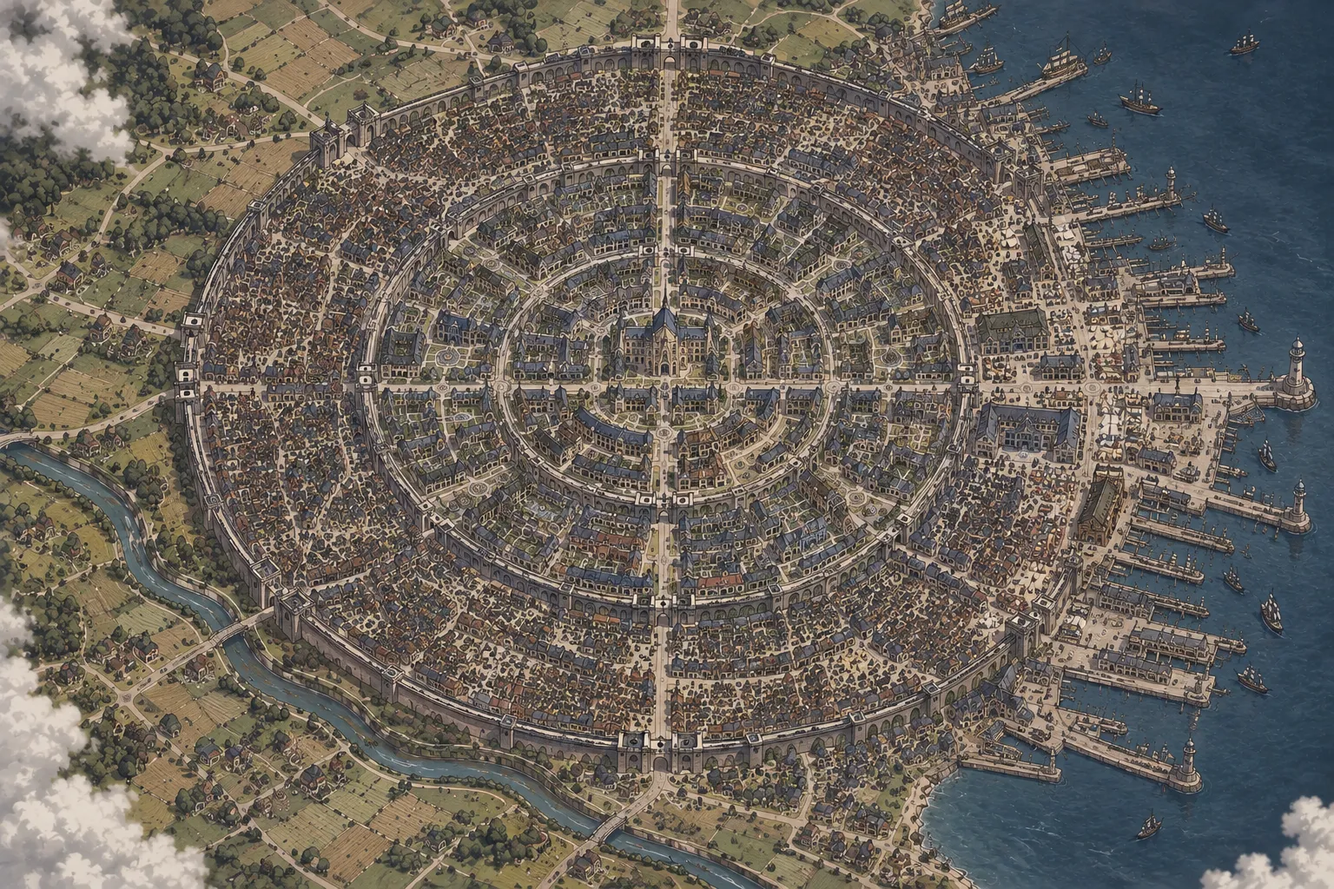
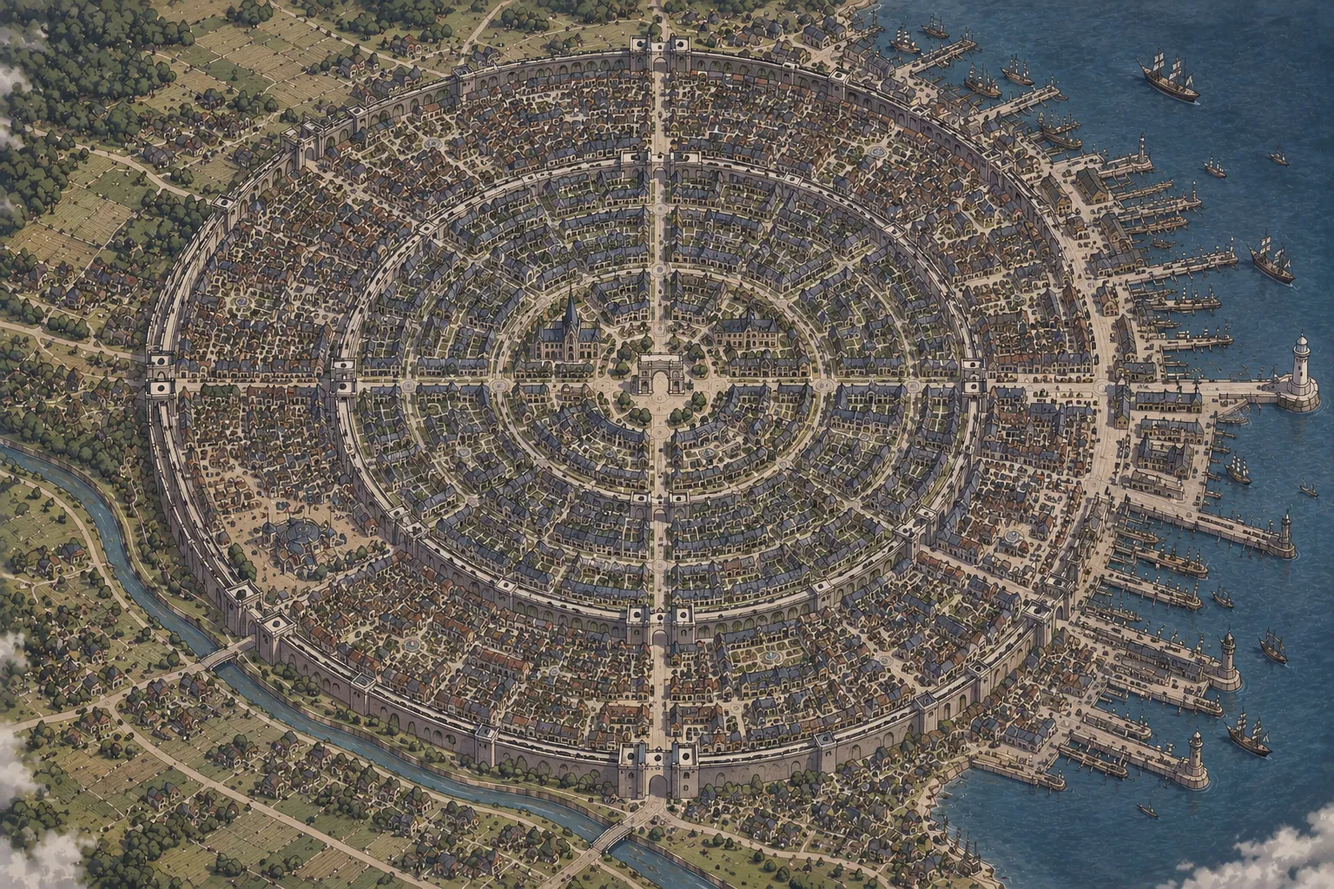
City map: new artwork, two districts (Outer City and Inner City)
Replace the map with the new image and drop the Middle Ring tab. Every
location is re-pinned on the new art: the Adventurer Guild is the domed
hall in the south-west; the old Middle Ring places move to the Outer City
(Tailor, Auction House, Church) or the Inner City (Library, Estate Office,
Silver Lantern Inn). Residences are renamed Outer City House, Inner City
Townhouse and Inner City Mansion (save ids unchanged).

Claude-Session: https://claude.ai/code/session_015ZuKpYw1JmkxdkRzcPHZ6y

diff --git a/src/scenes/CityScene.ts b/src/scenes/CityScene.ts
@@ -9,8 +9,9 @@ import { COLORS, HEIGHT, ScrollList, WIDTH, button, confirmDialog, figure, panel
 
 export const CITY_MAP_KEY = 'city-map';
 
-type Ring = 'outer' | 'middle' | 'inner';
-const RINGS: [Ring, string][] = [['outer', 'Outer Ring'], ['middle', 'Middle Ring'], ['inner', 'Inner Ring']];
+/** The two parts of the city, split by the inner wall (each is a map tab). */
+type District = 'outer' | 'inner';
+const DISTRICTS: [District, string][] = [['outer', 'Outer City'], ['inner', 'Inner City']];
 
 interface Place {
   name: string;
@@ -22,46 +23,48 @@ interface Place {
   data?: object;
 }
 
-const PLACES: Record<Ring, Place[]> = {
+/**
+ * Locations by district. Outer City: between the outer and inner walls, plus the harbour to the east
+ * (the Adventurer Guild is the domed hall on the plaza in the south-west). Inner City: inside the inner wall,
+ * with the cathedral, the manor and the triumphal arch at its centre.
+ */
+const PLACES: Record<District, Place[]> = {
   outer: [
-    { name: 'Adventurer Guild', blurb: 'Quest board, hire mercenaries and companions, the party leaderboard.', at: [1162, 378], scene: 'Guild' },
-    { name: 'Docks', blurb: 'Ships from across the sea.', at: [1330, 760] },
-    { name: 'Marketplace', blurb: 'Stalls and traders.', at: [1250, 270] },
-    { name: 'Slave Market', blurb: 'Buy slaves, or sell your own.', at: [1266, 585], scene: 'Market' },
-    { name: 'Slums', blurb: 'The poorest quarter, inside the outer wall.', at: [330, 650] },
-    { name: 'Customs Office', blurb: 'Duties on everything that comes through the harbour.', at: [1352, 455] },
-    { name: GUILD.inns.standard.name, blurb: `Inn: lodging at ${GUILD.inns.standard.pricePerPerson} gold per person a night, and drinks. What C-rank adventurers expect.`, at: [330, 330], scene: 'Inn', data: { tier: 'standard' } },
-    { name: GUILD.residences.outer.name, blurb: `A home of your own (${GUILD.residences.outer.price} gold at the Estate Office): free nights, as good as an inn.`, at: [560, 860], scene: 'Inn', data: { ring: 'outer' } },
-  ],
-  middle: [
-    { name: 'Tailor', blurb: 'Clothes and fittings.', at: [520, 380] },
-    { name: 'Auction House', blurb: 'Rare goods to the highest bidder.', at: [1010, 420] },
-    { name: 'Library', blurb: 'Books, maps and old records.', at: [640, 650] },
-    { name: 'Church', blurb: 'Prayer and healing.', at: [905, 640] },
-    { name: 'Estate Office', blurb: 'Buy and sell residences in every ring.', at: [1110, 300], scene: 'Estate' },
-    { name: GUILD.inns.highEnd.name, blurb: `High-end inn: ${GUILD.inns.highEnd.pricePerPerson} gold per person a night, and drinks. What B-rank adventurers expect.`, at: [1060, 560], scene: 'Inn', data: { tier: 'highEnd' } },
-    { name: GUILD.residences.middle.name, blurb: `A Middle Ring home (${GUILD.residences.middle.price} gold at the Estate Office): free nights, as good as a high-end inn.`, at: [470, 560], scene: 'Inn', data: { ring: 'middle' } },
+    { name: 'Adventurer Guild', blurb: 'Quest board, hire mercenaries and companions, the party leaderboard.', at: [350, 628], scene: 'Guild' },
+    { name: 'Docks', blurb: 'Ships from across the sea.', at: [1360, 660] },
+    { name: 'Marketplace', blurb: 'Stalls and traders by the harbour warehouses.', at: [1240, 235] },
+    { name: 'Slave Market', blurb: 'Buy slaves, or sell your own.', at: [1160, 613], scene: 'Market' },
+    { name: 'Slums', blurb: 'The poorest quarter, crowded against the outer wall.', at: [470, 765] },
+    { name: 'Customs Office', blurb: 'Duties on everything that comes through the harbour.', at: [1335, 525] },
+    { name: 'Tailor', blurb: 'Clothes and fittings.', at: [497, 167] },
+    { name: 'Auction House', blurb: 'Rare goods to the highest bidder.', at: [1010, 173] },
+    { name: 'Church', blurb: 'Prayer and healing.', at: [277, 343] },
+    { name: GUILD.inns.standard.name, blurb: `Inn: lodging at ${GUILD.inns.standard.pricePerPerson} gold per person a night, and drinks. What C-rank adventurers expect.`, at: [255, 480], scene: 'Inn', data: { tier: 'standard' } },
+    { name: GUILD.residences.outer.name, blurb: `A home of your own (${GUILD.residences.outer.price} gold at the Estate Office): free nights, as good as an inn.`, at: [900, 805], scene: 'Inn', data: { ring: 'outer' } },
   ],
   inner: [
-    { name: "Lord's Manor", blurb: 'Seat of the Lord of Arch City.', at: [765, 392] },
-    { name: 'Central Government Office', blurb: 'Permits, taxes and the city\'s business.', at: [650, 470] },
-    { name: 'Central Church', blurb: 'The great church at the heart of the city.', at: [885, 470] },
-    { name: GUILD.inns.luxury.name, blurb: `Luxury inn: ${GUILD.inns.luxury.pricePerPerson} gold per person a night, and drinks. What A and S-rank adventurers expect.`, at: [765, 548], scene: 'Inn', data: { tier: 'luxury' } },
-    { name: GUILD.residences.inner.name, blurb: `An Inner Ring mansion (${GUILD.residences.inner.price} gold at the Estate Office): free nights, as good as a luxury inn.`, at: [600, 560], scene: 'Inn', data: { ring: 'inner' } },
+    { name: "Lord's Manor", blurb: 'Seat of the Lord of Arch City.', at: [860, 378] },
+    { name: 'Central Church', blurb: 'The great cathedral at the heart of the city.', at: [655, 375] },
+    { name: 'Central Government Office', blurb: 'Permits, taxes and the city\'s business, by the triumphal arch.', at: [757, 440] },
+    { name: 'Library', blurb: 'Books, maps and old records.', at: [530, 300] },
+    { name: 'Estate Office', blurb: 'Buy and sell residences across the city.', at: [990, 330], scene: 'Estate' },
+    { name: GUILD.inns.highEnd.name, blurb: `High-end inn: ${GUILD.inns.highEnd.pricePerPerson} gold per person a night, and drinks. What B-rank adventurers expect.`, at: [995, 570], scene: 'Inn', data: { tier: 'highEnd' } },
+    { name: GUILD.inns.luxury.name, blurb: `Luxury inn: ${GUILD.inns.luxury.pricePerPerson} gold per person a night, and drinks. What A and S-rank adventurers expect.`, at: [880, 500], scene: 'Inn', data: { tier: 'luxury' } },
+    { name: GUILD.residences.middle.name, blurb: `A townhouse inside the inner wall (${GUILD.residences.middle.price} gold at the Estate Office): free nights, as good as a high-end inn.`, at: [520, 585], scene: 'Inn', data: { ring: 'middle' } },
+    { name: GUILD.residences.inner.name, blurb: `A mansion by the cathedral (${GUILD.residences.inner.price} gold at the Estate Office): free nights, as good as a luxury inn.`, at: [640, 505], scene: 'Inn', data: { ring: 'inner' } },
   ],
 };
 
 /** Part of the map image each tab shows (x, y, width; height follows the frame). */
-const VIEWS: Record<Ring, { x: number; y: number; w: number }> = {
+const VIEWS: Record<District, { x: number; y: number; w: number }> = {
   outer: { x: 0, y: 0, w: 1536 },
-  middle: { x: 280, y: 150, w: 960 },
-  inner: { x: 495, y: 252, w: 540 },
+  inner: { x: 380, y: 190, w: 760 },
 };
 
-/** Arch City: the hub. Pick a ring and a location (inns to rest), or set out on an accepted quest. */
+/** Arch City: the hub. Pick a district and a location (inns to rest), or set out on an accepted quest. */
 export class CityScene extends Phaser.Scene {
   private tip!: Phaser.GameObjects.Text;
-  private ring: Ring = 'outer';
+  private district: District = 'outer';
 
   constructor() {
     super('City');
@@ -82,16 +85,16 @@ export class CityScene extends Phaser.Scene {
     const state = requireState();
     cityHeader(this, state, GUILD.city);
 
-    // ---- ring tabs and the map -------------------------------------------------------------
-    RINGS.forEach(([id, label], i) => button(this, 16 + i * 204, 72, 196, 30, label, () => {
-      this.ring = id;
+    // ---- district tabs and the map -------------------------------------------------------------
+    DISTRICTS.forEach(([id, label], i) => button(this, 16 + i * 294, 72, 286, 30, label, () => {
+      this.district = id;
       this.render();
-    }, { selected: this.ring === id, fontSize: 15 }));
+    }, { selected: this.district === id, fontSize: 15 }));
     const MX = 16;
     const MY = 108;
-    const MW = 604;
+    const MW = 580;
     const MH = Math.round((MW * 1024) / 1536);
-    const view = VIEWS[this.ring];
+    const view = VIEWS[this.district];
     const k = MW / view.w;
     const toMap = (x: number, y: number): [number, number] => [MX + (x - view.x) * k, MY + (y - view.y) * k];
     if (this.textures.exists(CITY_MAP_KEY)) {
@@ -100,14 +103,14 @@ export class CityScene extends Phaser.Scene {
     }
     this.add.rectangle(MX, MY, MW, MH).setOrigin(0).setStrokeStyle(2, COLORS.border);
 
-    const places = PLACES[this.ring];
+    const places = PLACES[this.district];
     for (const p of places) this.pin(p, ...toMap(...p.at));
     this.tip = text(this, MX + 8, MY + MH - 30, 'Click a location.', {
       fontSize: '13px', color: COLORS.text, backgroundColor: '#000000b0', padding: { x: 8, y: 4 }, wordWrap: { width: MW - 40 },
     }).setDepth(10);
 
-    // Every location in the ring as a button too (greyed out until it opens).
-    places.forEach((p, i) => button(this, MX + (i % 4) * 152, MY + MH + 6 + Math.floor(i / 4) * 28, 146, 24, p.name,
+    // Every location in the district as a button too (greyed out until it opens).
+    places.forEach((p, i) => button(this, MX + (i % 4) * 145, MY + MH + 6 + Math.floor(i / 4) * 25, 140, 23, p.name,
       () => this.visit(p), { fontSize: p.name.length > 20 ? 10 : 12, enabled: !!p.scene }));
 
     // ---- right: the quest at hand, and recent events -----------------------------------------
@@ -126,7 +129,7 @@ export class CityScene extends Phaser.Scene {
       });
     } else {
       const done = state.lastQuestDay === state.day;
-      text(this, RX + 12, 106, done ? 'Back from a quest today. Accept the next one any time; you can set out tomorrow.' : 'None. Visit the Adventurer Guild\'s quest board (Outer Ring).', { fontSize: '14px', wordWrap: { width: 284 } });
+      text(this, RX + 12, 106, done ? 'Back from a quest today. Accept the next one any time; you can set out tomorrow.' : 'None. Visit the Adventurer Guild\'s quest board (Outer City).', { fontSize: '14px', wordWrap: { width: 284 } });
       button(this, RX + 12, 196, 284, 32, 'Go to the Adventurer Guild', () => this.scene.start('Guild'), { fontSize: 14 });
     }
 
@@ -205,7 +208,7 @@ export class CityScene extends Phaser.Scene {
   /** End the day without an inn: free, but housed companions resent it. */
   private sleepOut(): void {
     const state = requireState();
-    confirmDialog(this, `Sleep outside tonight?\nIt's free, but companions you house lose relationship (more if they expect a high-end inn). Or find an inn (Outer and Inner Ring).`, () => {
+    confirmDialog(this, `Sleep outside tonight?\nIt's free, but companions you house lose relationship (more if they expect a high-end inn). Or find an inn (Outer and Inner City).`, () => {
       const msgs = sleepOutside(state, Math.random);
       markDirty();
       this.render();

diff --git a/src/scenes/InnScene.ts b/src/scenes/InnScene.ts
@@ -11,11 +11,11 @@ type Place = InnTier | Ring;
 
 const BLURB: Record<Place, string> = {
   standard: 'A busy common-room inn by the outer wall: stew, ale and a straw mattress. It does the job.',
-  highEnd: 'A respectable Middle Ring inn: clean sheets, a private room each and a decent wine list.',
-  luxury: 'The finest house in the Inner Ring: feather beds, hot baths and a cellar to match. Seasoned adventurers expect nothing less.',
+  highEnd: 'A respectable Inner City inn just inside the inner wall: clean sheets, a private room each and a decent wine list.',
+  luxury: 'The finest house in the Inner City: feather beds, hot baths and a cellar to match. Seasoned adventurers expect nothing less.',
   outer: 'A sturdy townhouse inside the outer wall. Your own roof: nights here cost nothing.',
-  middle: 'A handsome house in the Middle Ring, among merchants and guild masters. Nights here cost nothing.',
-  inner: 'A mansion in the Inner Ring, a street away from the Lord\'s Manor. Nights here cost nothing.',
+  middle: 'A handsome townhouse inside the inner wall, among merchants and guild masters. Nights here cost nothing.',
+  inner: 'A mansion in the heart of the Inner City, a street away from the Lord\'s Manor. Nights here cost nothing.',
 };
 
 /** An inn or one of the party's residences: end the day with a night's lodging (or several). Inns also sell drinks. */
@@ -59,7 +59,7 @@ export class InnScene extends Phaser.Scene {
     text(this, 30, 184, price, { fontSize: '18px', color: COLORS.gold });
     const quality = LODGING_QUALITY[this.place];
     const perks = [
-      `Counts as ${QUALITY_TEXT[quality]} (quality ${quality} of 3). D-rank adventurers are fine outside; C-rank expect an inn, B-rank a high-end inn, A and S-rank a luxury one (or a residence in that ring).`,
+      `Counts as ${QUALITY_TEXT[quality]} (quality ${quality} of 3). D-rank adventurers are fine outside; C-rank expect an inn, B-rank a high-end inn, A and S-rank a luxury one (or a residence as good).`,
       `The party houses ${guests.length}: you, your slaves, and companions whose contract includes food & lodging. Those companions, and slaves, like a better night than they expect and resent a worse one.`,
     ];
     text(this, 30, 214, perks.join('\n'), { fontSize: '12px', color: COLORS.dim, wordWrap: { width: 532 }, lineSpacing: 3 });
@@ -71,7 +71,7 @@ export class InnScene extends Phaser.Scene {
       fontSize: '13px', lineSpacing: 4,
     });
     if (home && !owned) {
-      button(this, 30, 452, 530, 46, `For sale at the Estate Office (Middle Ring): ${GUILD.residences[home].price} gold`, () => this.scene.start('Estate'), { fontSize: 15 });
+      button(this, 30, 452, 530, 46, `For sale at the Estate Office (Inner City): ${GUILD.residences[home].price} gold`, () => this.scene.start('Estate'), { fontSize: 15 });
     } else {
       const stays: [number, string][] = [[1, 'Stay the night'], [3, 'Stay 3 nights'], [7, 'Stay a week']];
       stays.forEach(([n, label], i) => button(this, 30 + i * 180, 452, 170, 46, `${label}\n${perNight * n} gold${home ? ' (food)' : ''}`, () => this.stay(n), {

diff --git a/src/scenes/EstateScene.ts b/src/scenes/EstateScene.ts
@@ -6,14 +6,15 @@ import { markDirty, requireState, session } from '../game/session';
 import { cityHeader } from '../ui/hud';
 import { COLORS, HEIGHT, WIDTH, button, confirmDialog, panel, setupCamera, text, toast } from '../ui/widgets';
 
-const RING_NAME: Record<Ring, string> = { outer: 'Outer Ring', middle: 'Middle Ring', inner: 'Inner Ring' };
+/** Which part of the city each residence is in (the townhouse and the mansion are both in the Inner City). */
+const DISTRICT: Record<Ring, string> = { outer: 'Outer City', middle: 'Inner City', inner: 'Inner City' };
 const BLURB: Record<Ring, string> = {
   outer: 'A sturdy townhouse inside the outer wall, a short walk from the guild.',
-  middle: 'A handsome house among the merchants and guild masters of the Middle Ring.',
-  inner: 'A mansion in the Inner Ring, a street away from the Lord\'s Manor.',
+  middle: 'A handsome townhouse inside the inner wall, among merchants and guild masters.',
+  inner: 'A mansion in the heart of the Inner City, a street away from the Lord\'s Manor.',
 };
 
-/** The Estate Office (Middle Ring): buy and sell the party's residences. */
+/** The Estate Office (Inner City): buy and sell the party's residences. */
 export class EstateScene extends Phaser.Scene {
   constructor() {
     super('Estate');
@@ -34,7 +35,7 @@ export class EstateScene extends Phaser.Scene {
     const state = requireState();
     cityHeader(this, state, 'Estate Office');
     button(this, WIDTH - 176, 74, 160, 34, `Back to ${GUILD.city}`, () => this.scene.start('City'), { fontSize: 14 });
-    text(this, 20, 82, `Homes for sale in ${GUILD.city}. Nights in your own residence are free, and count as good as that ring's inn.\nThe office buys a residence back for ${Math.round(GUILD.residences.sellShare * 100)}% of its price.`, {
+    text(this, 20, 82, `Homes for sale in ${GUILD.city}. Nights in your own residence are free, and count as good as an inn of the same standing.\nThe office buys a residence back for ${Math.round(GUILD.residences.sellShare * 100)}% of its price.`, {
       fontSize: '13px', color: COLORS.dim, wordWrap: { width: WIDTH - 220 }, lineSpacing: 3,
     });
 
@@ -46,7 +47,7 @@ export class EstateScene extends Phaser.Scene {
       const w = 300;
       panel(this, x, y, w, HEIGHT - 146, owned ? 0x1f2a1f : COLORS.panel);
       text(this, x + 14, y + 12, home.name, { fontSize: '19px', color: owned ? '#6fdc8c' : COLORS.text, wordWrap: { width: w - 28 } });
-      text(this, x + 14, y + 40, RING_NAME[ring], { fontSize: '13px', color: COLORS.dim });
+      text(this, x + 14, y + 40, DISTRICT[ring], { fontSize: '13px', color: COLORS.dim });
       text(this, x + 14, y + 70, BLURB[ring], { fontSize: '13px', wordWrap: { width: w - 28 }, lineSpacing: 3 });
       const q = LODGING_QUALITY[ring];
       text(this, x + 14, y + 140, `Night quality ${q} of 3: counts as ${QUALITY_TEXT[q]}.`, { fontSize: '12px', color: COLORS.dim, wordWrap: { width: w - 28 } });

diff --git a/src/data/guild.ts b/src/data/guild.ts
@@ -11,7 +11,7 @@ export interface QuestTier {
 
 export type InnTier = 'standard' | 'highEnd' | 'luxury';
 export const INN_TIERS: readonly InnTier[] = ['standard', 'highEnd', 'luxury'];
-/** City rings (where residences are). */
+/** Residences, cheapest first (ids kept from when the city had three rings: 'outer' is in the Outer City, 'middle' and 'inner' in the Inner City). */
 export type Ring = 'outer' | 'middle' | 'inner';
 export const RINGS: readonly Ring[] = ['outer', 'middle', 'inner'];
 export interface InnConfig {
@@ -26,7 +26,7 @@ export interface InnConfig {
 export type Lodging = InnTier | Ring | 'outside' | 'road';
 /** A night in the city (not on the road). */
 export type CityLodging = Exclude<Lodging, 'road'>;
-/** Night quality (for adventurers' expectations): outside 0, then each ring's inn or residence 1-3. */
+/** Night quality (for adventurers' expectations): outside 0, then each inn or residence 1-3. */
 export const LODGING_QUALITY: Record<CityLodging, number> = { outside: 0, standard: 1, outer: 1, highEnd: 2, middle: 2, luxury: 3, inner: 3 };
 export const isResidence = (l: Lodging): l is Ring => (RINGS as readonly string[]).includes(l);
 

diff --git a/src/game/condition.ts b/src/game/condition.ts
@@ -66,7 +66,7 @@ export function expectedQuality(c: Character): number {
 }
 
 /** What a night quality means, for the UI. */
-export const QUALITY_TEXT = ['sleeping outside', 'an inn or Outer Ring residence', 'a high-end inn or Middle Ring residence', 'a luxury inn or Inner Ring residence'];
+export const QUALITY_TEXT = ['sleeping outside', 'an inn or the Outer City House', 'a high-end inn or the Inner City Townhouse', 'a luxury inn or the Inner City Mansion'];
 
 /** Name of a place to spend the night. */
 export function lodgingName(l: Lodging): string {

diff --git a/tests/city.test.ts b/tests/city.test.ts
@@ -375,7 +375,7 @@ describe('contracts', () => {
     expect(buyResidence(s, 'middle')).toBeNull();
     expect(s.gold).toBe(0);
     expect(() => stayAtHome(s, 'inner', 1, makeRng(1))).toThrow();
-    c.level = 12; // B rank: a Middle Ring residence is as good as a high-end inn
+    c.level = 12; // B rank: the Inner City Townhouse is as good as a high-end inn
     neutralFood(s);
     s.gold = 100;
     stayAtHome(s, 'middle', 1, makeRng(1));

diff --git a/README.md b/README.md
@@ -6,7 +6,7 @@ A small turn-based tactical RPG that runs in the browser, built with [Phaser 4](
 
 1. **Main menu**: New Game, Continue, Save Game, Load Game, and **Quick Battle (Demo)**: the original game on its own. Recruit up to 4 Adventurers for free at a camp (any look, weapon and skills), then fight stages 1 to 5; every victory is worth a level, and clearing stage 5 completes the demo. The **Enemies** slider at camp raises the difficulty: it multiplies the encounter's size from 1x to 5x in 0.5 steps (5x at stage 1 with 4 heroes is 40 rats). Big encounters deploy further toward the middle of the map. The demo is separate from your Arch City campaign and isn't saved.
 2. **Your character**: a new game starts by creating your main character (name, sex, skin, face, hair, hair colour, clothes colour, weapon, skills) and naming your party. The main character is permanent: they can't be dismissed and always lead the party on quests.
-3. **Arch City**: the hub is a map of the walled city (`public/art/city/arch-city.webp`) with three tabs: **Outer Ring** (Adventurer Guild, Docks, Marketplace, Slave Market, Slums, Customs Office, Sleeping Griffin Inn, Outer Ring Residence), **Middle Ring** (Tailor, Auction House, Library, Church, Estate Office, Silver Lantern Inn, Middle Ring Residence) and **Inner Ring** (Lord's Manor, Central Government Office, Central Church, Gilded Crown Inn, Inner Ring Residence). Click a pin on the map or a button below it. Open so far: the **Adventurer Guild**, the **Slave Market**, the **Estate Office**, the three **inns** and the three **residences**; the rest are greyed out. **Manage Party** (bottom bar) handles your members and their schedule, **Sleep outside** ends the day for free, and the side panel sets out on an accepted quest. See [Arch City and the guild](#arch-city-and-the-adventurer-guild).
+3. **Arch City**: the hub is a map of the walled city (`public/art/city/arch-city.webp`) with two tabs: the **Outer City**, between the outer and inner walls and out to the harbour (Adventurer Guild, the domed hall in the south-west; Docks, Marketplace, Slave Market, Slums, Customs Office, Tailor, Auction House, Church, Sleeping Griffin Inn, Outer City House), and the **Inner City**, inside the inner wall (Lord's Manor, Central Church, Central Government Office, Library, Estate Office, Silver Lantern Inn, Gilded Crown Inn, Inner City Townhouse, Inner City Mansion). Click a pin on the map or a button below it. Open so far: the **Adventurer Guild**, the **Slave Market**, the **Estate Office**, the three **inns** and the three **residences**; the rest are greyed out. **Manage Party** (bottom bar) handles your members and their schedule, **Sleep outside** ends the day for free, and the side panel sets out on an accepted quest. See [Arch City and the guild](#arch-city-and-the-adventurer-guild).
 4. **Adventurers**: There are no fixed classes. Every party member is an Adventurer, and you build them by mixing a weapon with picks from the skill trees. Up to 4 go on each quest (the lineup); the party can have up to 8 members.
 5. **Tactical battle**: XCOM-style alternating turns. On your turn, every Adventurer has **2 AP** (action points), a movement AP and an action AP, and can spend them in any order (click a unit or press Tab). See [Action points and mana](#action-points-and-mana). Skills sit on the **skill bar** under the map: press **1–0** (or click a slot) to use one. Each slot shows its AP cost along the bottom (**Ends Turn**, **1AP**, **2AP** or **free**) and its mana cost at the top. By default slot 1 is the basic attack, 2 Overwatch, 3 Dash, and the rest follow; newly learned skills go after the last used slot. **Drag a slot onto another** to swap them (the layout is saved per character). With more than 10 skills the bar gets more pages: flip with ▲ ▼ or **[ ]**, and while dragging, hover ▲ ▼ to carry a skill to another page (or to a new empty one). The battle log is in the sidebar. Hover a skill to see its range box; any tile in range can be targeted. The map is 18×13 tiles (set in `stats.json`). Terrain: grass costs 4 Movement, forest 6 (and gives +20 Defense), river 8. Rock and deep water block movement, and rock blocks line of sight.
 
@@ -19,10 +19,10 @@ Time passes in days, and **every day ends with a night somewhere**: an **inn** (
 | Where | Per person per night | Quality |
 |---|---|---|
 | Sleeping outside | free | 0 |
-| Sleeping Griffin Inn (Outer Ring) | 4 gold | 1 |
-| Silver Lantern Inn (Middle Ring, high-end) | 8 gold | 2 |
-| Gilded Crown Inn (Inner Ring, luxury) | 15 gold | 3 |
-| Your residence (Outer / Middle / Inner Ring) | free | 1 / 2 / 3 |
+| Sleeping Griffin Inn (Outer City) | 4 gold | 1 |
+| Silver Lantern Inn (Inner City, high-end) | 8 gold | 2 |
+| Gilded Crown Inn (Inner City, luxury) | 15 gold | 3 |
+| Your residence (Outer City House / Inner City Townhouse / Mansion) | free | 1 / 2 / 3 |
 | On the road (multi-day quests) | 2 gold | doesn't count |
 
 **Food** is paid every day (in the city and on the road) and set per member in **Manage Party** (`food` in `guild.json`):
@@ -36,9 +36,9 @@ Time passes in days, and **every day ends with a night somewhere**: an **inn** (
 
 Companions whose contract doesn't include food and lodging find their own (their food buttons are greyed out), as do mercenaries.
 
-**Residences** are bought and sold at the **Estate Office** (Middle Ring): **Outer Ring 2,000 gold**, **Middle Ring 10,000**, **Inner Ring 50,000**; the office buys one back for 70% of its price. Nights there are free and count as good as that ring's inn. Each residence has its own pin on the map, where the party can stay once it owns it.
+**Residences** are bought and sold at the **Estate Office** (Inner City): the **Outer City House 2,000 gold**, the **Inner City Townhouse 10,000** and the **Inner City Mansion 50,000**; the office buys one back for 70% of its price. Nights there are free and count as good as the Sleeping Griffin, the Silver Lantern and the Gilded Crown respectively. Each residence has its own pin on the map, where the party can stay once it owns it.
 
-**Expectations** follow each adventurer's rank (see below): **D**-rank adventurers are fine sleeping outside, **C** expect an inn or Outer Ring residence, **B** a high-end inn or Middle Ring residence, **A** and **S** the luxury inn or Inner Ring residence. Each night, every companion the party houses gains **+2 relationship** if they slept better than they expect, and loses **3 per quality step** worse: an A-rank companion loses 9 for a night outside. Food works the same way against the same expectations (D poor, C common, B fine, A and S luxury), at **+1** for better food and **−2 per step** worse; slaves count too. (`lodging`, `food` and `residences` in `guild.json`.)
+**Expectations** follow each adventurer's rank (see below): **D**-rank adventurers are fine sleeping outside, **C** expect an inn or the Outer City House, **B** a high-end inn or the Townhouse, **A** and **S** the luxury inn or the Mansion. Each night, every companion the party houses gains **+2 relationship** if they slept better than they expect, and loses **3 per quality step** worse: an A-rank companion loses 9 for a night outside. Food works the same way against the same expectations (D poor, C common, B fine, A and S luxury), at **+1** for better food and **−2 per step** worse; slaves count too. (`lodging`, `food` and `residences` in `guild.json`.)
 
 ### Health, Morale and the schedule
 
